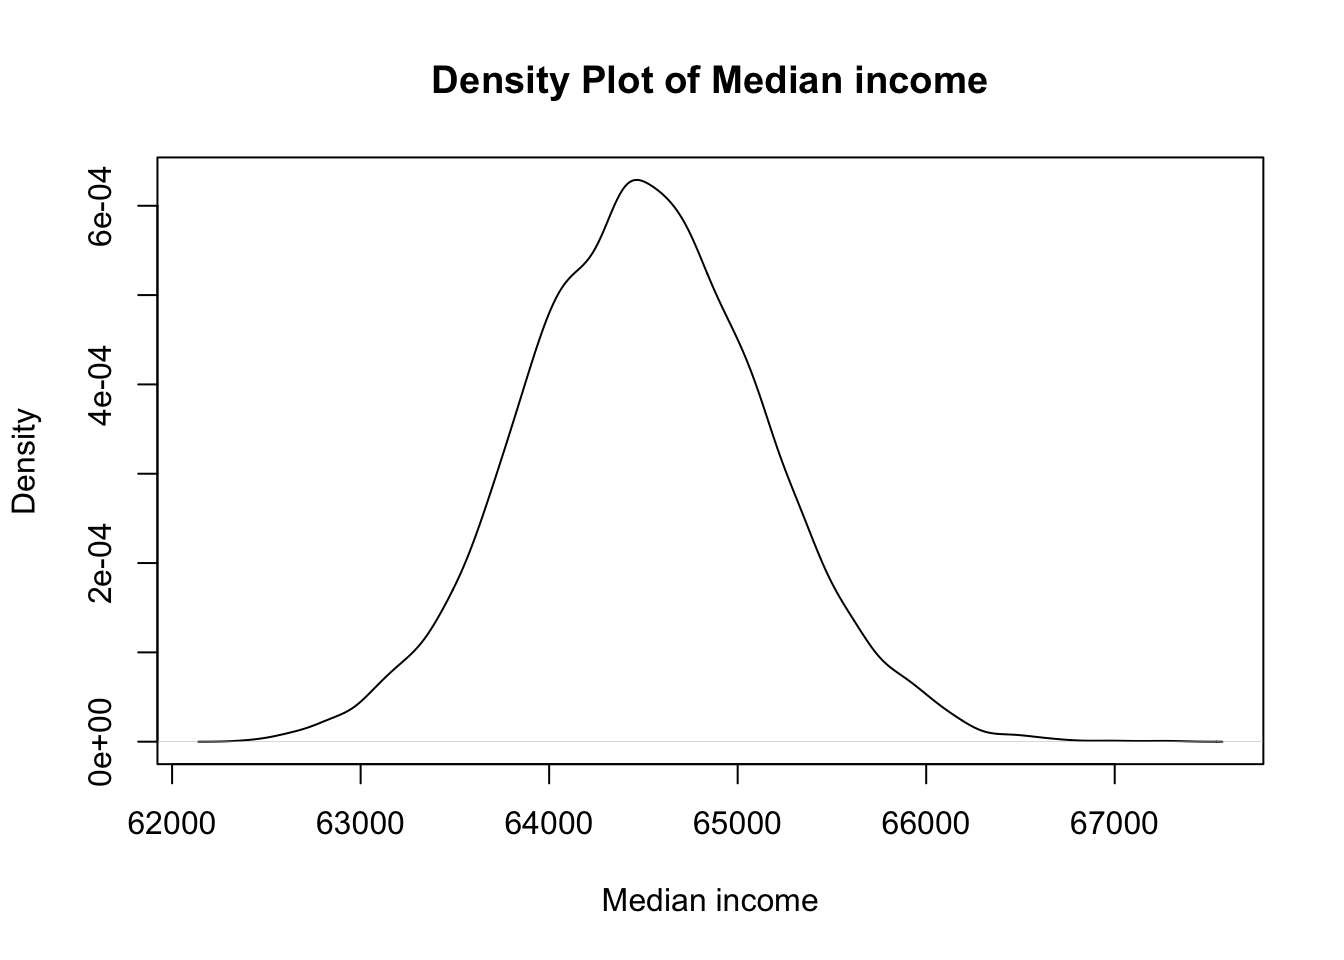
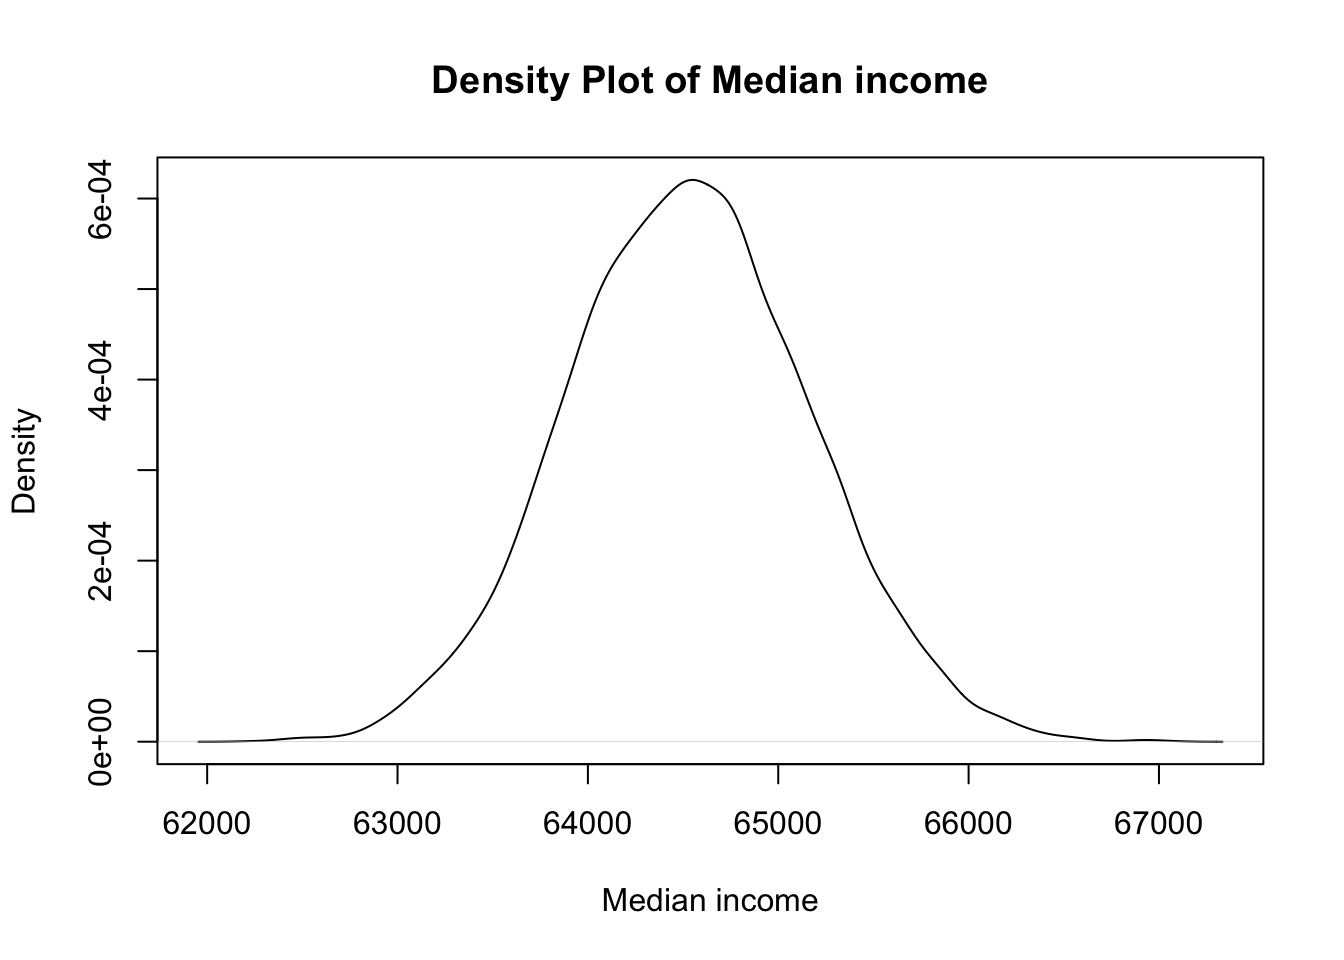
css sidebas not yet corrected

diff --git a/docs/posts/montecarlo.html b/docs/posts/montecarlo.html
@@ -2307,8 +2307,8 @@ Income distribution is not normal
 <span id="cb7-2"><a href="#cb7-2" aria-hidden="true" tabindex="-1"></a><span class="fu">summary</span>(mean_income)</span></code><button title="Copy to Clipboard" class="code-copy-button"><i class="bi"></i></button></pre></div>
 </details>
 <div class="cell-output cell-output-stdout">
-<pre><code>    Min.  1st Qu.   Median     Mean  3rd Qu.     Max. 
-  207941   296589   344258   522606   440455 59690061 </code></pre>
+<pre><code>     Min.   1st Qu.    Median      Mean   3rd Qu.      Max. 
+   212599    296049    342734    578103    437723 472864163 </code></pre>
 </div>
 <details open="" class="code-fold">
 <summary>Code</summary>
@@ -2316,7 +2316,7 @@ Income distribution is not normal
 </details>
 <div class="cell-output cell-output-stdout">
 <pre><code>   Min. 1st Qu.  Median    Mean 3rd Qu.    Max. 
-  62416   64063   64496   64502   64929   67295 </code></pre>
+  62227   64090   64523   64529   64955   67061 </code></pre>
 </div>
 <details open="" class="code-fold">
 <summary>Code</summary>
@@ -2324,7 +2324,7 @@ Income distribution is not normal
 </details>
 <div class="cell-output cell-output-stdout">
 <pre><code>     Min.   1st Qu.    Median      Mean   3rd Qu.      Max. 
-9.898e+05 3.336e+06 5.744e+06 2.276e+07 1.197e+07 5.924e+09 </code></pre>
+9.710e+05 3.315e+06 5.595e+06 2.840e+07 1.200e+07 4.719e+10 </code></pre>
 </div>
 </div>
 </section>

diff --git a/docs/Biomedical/Research Methodology/wrangling.html b/docs/Biomedical/Research Methodology/wrangling.html
@@ -3602,12 +3602,12 @@ Record
 <div class="cell-output cell-output-stdout">
 <pre><code>     age   sex  class
    &lt;int&gt; &lt;int&gt; &lt;fctr&gt;
-1:     1     1  child
-2:     2     1  child
+1:     1     0  child
+2:     2     0  child
 3:     3     1  child
 4:     4     0  child
 5:     5     1  child
-6:     6     0  child</code></pre>
+6:     6     1  child</code></pre>
 </div>
 </div>
 <section id="making-data-wide" class="level3">
@@ -3625,12 +3625,12 @@ Record
 <pre><code>Key: &lt;age&gt;
      age      0      1
    &lt;int&gt; &lt;fctr&gt; &lt;fctr&gt;
-1:     1   &lt;NA&gt;  child
-2:     2   &lt;NA&gt;  child
+1:     1  child   &lt;NA&gt;
+2:     2  child   &lt;NA&gt;
 3:     3   &lt;NA&gt;  child
 4:     4  child   &lt;NA&gt;
 5:     5   &lt;NA&gt;  child
-6:     6  child   &lt;NA&gt;</code></pre>
+6:     6   &lt;NA&gt;  child</code></pre>
 </div>
 </div>
 

diff --git a/docs/tenet.html b/docs/tenet.html
@@ -30,6 +30,7 @@ ul.task-list li input[type="checkbox"] {
 <script src="site_libs/quarto-search/fuse.min.js"></script>
 <script src="site_libs/quarto-search/quarto-search.js"></script>
 <meta name="quarto:offset" content="./">
+<link href="./Articles.qmd" rel="next">
 <link href="./author.html" rel="prev">
 <link href=".//image/logo.png" rel="icon" type="image/png">
 <script src="site_libs/cookie-consent/cookie-consent.js"></script>
@@ -2535,6 +2536,9 @@ window.document.addEventListener("DOMContentLoaded", function (event) {
       </a>          
   </div>
   <div class="nav-page nav-page-next">
+      <a href="./Articles.qmd" class="pagination-link" aria-label="">
+        <span class="nav-page-text"></span> <i class="bi bi-arrow-right-short"></i>
+      </a>
   </div>
 </nav>
 </div> <!-- /content -->

diff --git a/docs/styles.css b/docs/styles.css
@@ -20,9 +20,11 @@ table {
 }
 
 
-
-#quarto-sidebar {
-    flex: 0 0 250px; /* Sidebar fixed width */
-    overflow-y: auto; /* Allows scrolling for longer content */
+@media (max-width: 768px) {
+    .sidebar {
+        overflow-y: scroll;
+    }
 }
+
+
 

diff --git a/styles.css b/styles.css
@@ -20,9 +20,11 @@ table {
 }
 
 
-
-#quarto-sidebar {
-    flex: 0 0 250px; /* Sidebar fixed width */
-    overflow-y: auto; /* Allows scrolling for longer content */
+@media (max-width: 768px) {
+    .sidebar {
+        overflow-y: scroll;
+    }
 }
+
+
 
